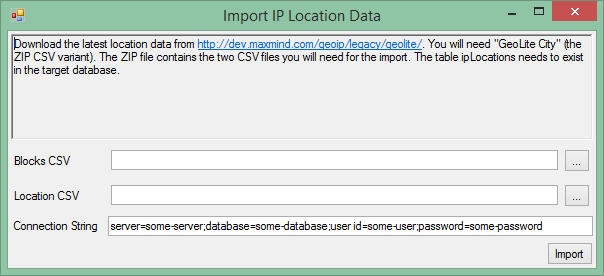
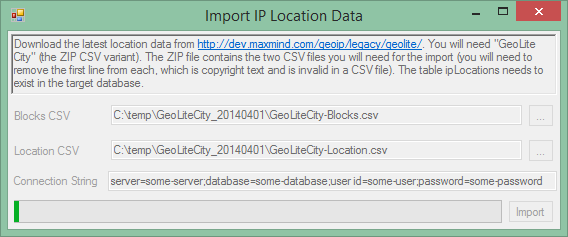
Added error message on exception. New screenshot.

Changed region(s): [[0.0, 0.443, 0.9877, 0.9747], [0.0, 0.0, 0.9877, 0.5316], [0.9877, 0.0, 1.0, 0.0591]]

diff --git a/trunk/Rhythm.ImportIPLocationData/frmMain.cs b/trunk/Rhythm.ImportIPLocationData/frmMain.cs
@@ -252,6 +252,12 @@
                     }
 
                 }
+                catch
+                {
+                    HandleInvoke(() => {
+                        MessageBox.Show("Error. Please check your inputs.");
+                    });
+                }
                 finally
                 {
                     HandleInvoke(() => {
